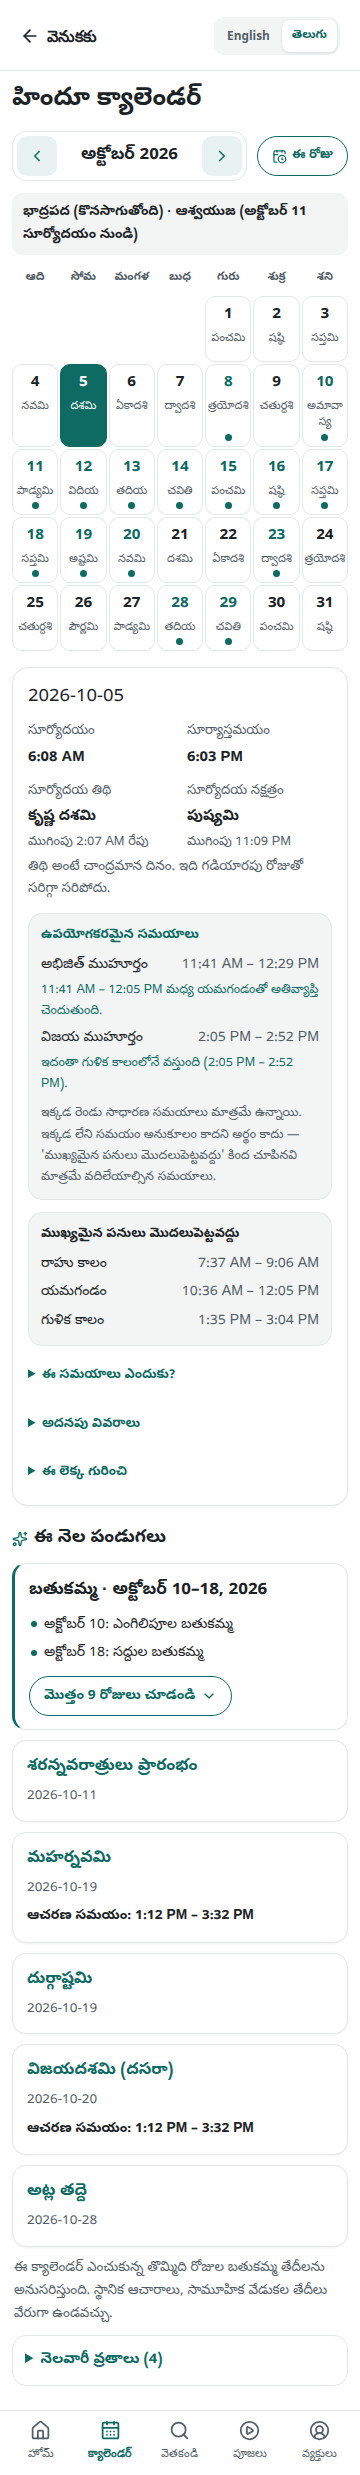
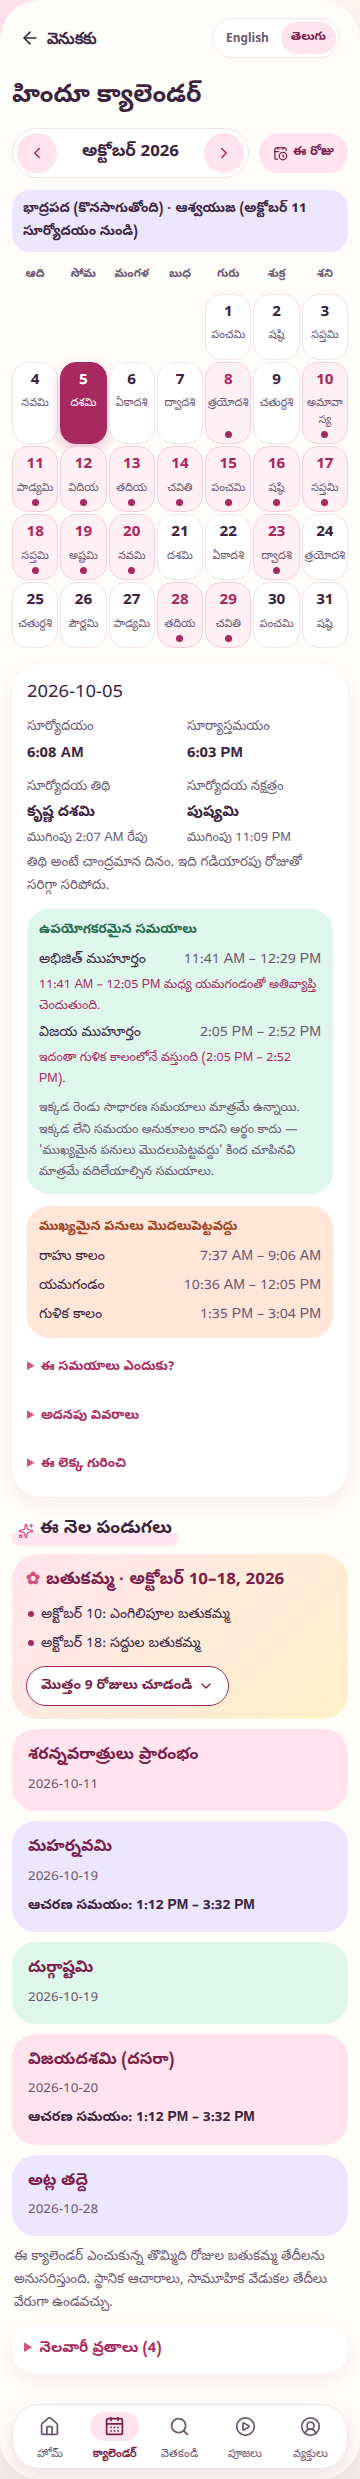
Design exploration: light and cute pastel theme (revision 3)
Owner feedback on revision 2 (single teal accent): "try out of box and
light and cute theme". A third direction:

- warm cream page with soft pastel bubbles (pink, lavender, mint,
  butter, peach) and one berry accent (#a8295f) for links/actions;
- very rounded shapes: pill buttons, 20-32px cards, floating pill
  bottom navigation, gentle warm shadows;
- Today card as a soft pastel sky with a pale sun, details in white
  bubbles; festival cards take turns in pastel colours; pastel
  quick-access tiles; small CSS-only flower marks (hidden from AT);
- friendly rounded UI face where the platform has one.

Cute applies to interface chrome only: puja steps, mantras, Katha,
Sankalpam and concluding verses keep their plain presentation and a
neutral --font-content face. All text pairs checked for WCAG AA.
Presentation only; Tithi-label wrapping rules untouched.

diff --git a/app/globals.css b/app/globals.css
@@ -4,17 +4,22 @@
 
 .back-button{border:0;background:transparent;color:var(--foreground);display:flex;align-items:center;gap:7px;font-weight:700;padding:8px 0}.plain-note{margin:15px 0 0;padding-top:13px;border-top:1px solid rgba(255,255,255,.18);font-size:.78rem;line-height:1.45;color:rgba(255,255,255,.78)}.full-button{width:100%;border:0;text-align:left}.full-button>span{display:flex;align-items:center;color:var(--primary);font-size:.76rem;font-weight:800}.resume-line{display:flex;align-items:center;gap:6px;margin-top:12px;color:var(--primary);font-size:.78rem;font-weight:700}.flow-content{flex:1;padding:12px 20px 28px;overflow:auto}.flow-content>h1,.completion h1{margin:0;font-family:var(--font-display);font-size:1.8rem;line-height:1.3}.flow-intro{margin:10px 0 20px;color:var(--muted);font-size:.95rem;line-height:1.55}.person-list{display:grid;gap:12px}.form-card{border:1px solid var(--border);border-radius:18px;background:#fff;padding:16px}.form-card h2{margin:0 0 14px;font-family:var(--font-display);font-size:1.05rem}.form-card label{display:block;margin-top:12px;font-size:.82rem;font-weight:700}.form-card input,.form-card select{display:block;width:100%;margin-top:7px;border:1px solid var(--border);border-radius:11px;background:#fff;color:var(--foreground);padding:12px;font-size:.9rem}.add-button{width:100%;margin-top:12px;border:1px dashed var(--primary);border-radius:14px;background:var(--primary-soft);color:var(--primary);padding:12px;display:flex;justify-content:center;align-items:center;gap:7px;font-weight:800}.safety-note,.simple-explanation{display:flex;gap:11px;margin:18px 0;padding:14px;border-radius:16px;background:var(--surface-2);color:var(--foreground)}.safety-note svg,.simple-explanation>svg{flex:none;color:var(--primary)}.safety-note strong{font-size:.83rem}.safety-note p,.simple-explanation p{margin:6px 0 0;color:var(--muted);font-size:.8rem;line-height:1.5}.wide-primary{width:100%;min-height:48px;border:0;border-radius:14px;background:var(--primary);color:#fff;display:flex;align-items:center;justify-content:center;gap:8px;font-weight:800}.progress-label,.step-line{display:flex;justify-content:space-between;margin:18px 1px 8px;font-size:.8rem;color:var(--muted)}.progress-track{height:7px;border-radius:999px;background:var(--track);overflow:hidden}.progress-track span{display:block;height:100%;border-radius:999px;background:var(--primary);transition:width .25s ease}.check-box{width:22px;height:22px;border:1.5px solid var(--control-border);border-radius:7px;display:grid;place-items:center;flex:none}.simple-explanation h2{margin:0;font-family:var(--font-display);font-size:1rem}.simple-explanation strong{display:block;margin-top:8px;font-size:.78rem;line-height:1.4}.participant-summary{display:flex;align-items:center;gap:7px;color:var(--muted);font-size:.82rem;margin:18px 1px 12px}.puja-flow{display:flex;flex-direction:column}.puja-card{margin-top:20px;border:1px solid var(--border);border-radius:23px;background:#fff;padding:22px}.telugu-title{margin:0 0 8px;color:var(--primary);font-weight:800}.puja-card h1{margin:0;font-family:var(--font-display);font-size:1.7rem}.locked-note{display:flex;gap:9px;margin:15px 0;padding:12px;border-radius:13px;background:var(--warn-soft);color:var(--warn-text);font-size:.78rem;line-height:1.45}.locked-note svg{flex:none}.audio-button{width:100%;min-height:46px;border-radius:13px;display:flex;align-items:center;justify-content:center;gap:8px;font-weight:800;border:0;background:var(--primary-soft);color:var(--primary)}.audio-button:disabled{opacity:.65;cursor:not-allowed}.step-actions{display:grid;grid-template-columns:1fr 1.35fr;gap:10px;margin-top:auto;padding-top:22px}.step-actions button{min-height:47px;border:1px solid var(--border);border-radius:13px;background:#fff;color:var(--foreground);font-weight:800}.step-actions button:disabled{opacity:.4}.step-actions .primary-action{background:var(--primary);border-color:var(--primary);color:#fff;display:flex;align-items:center;justify-content:center;gap:5px}.completion{flex:1;display:flex;flex-direction:column;align-items:center;justify-content:center;text-align:center;padding:35px 25px}.completion-icon{width:76px;height:76px;border-radius:50%;display:grid;place-items:center;background:var(--primary-soft);color:var(--primary);margin-bottom:20px}.completion>p:not(.kicker){max-width:330px;color:var(--muted);line-height:1.6}.completion .wide-primary{max-width:310px;margin-top:20px}.restart-button{margin-top:10px;border:0;background:transparent;color:var(--primary);display:flex;align-items:center;gap:6px;padding:10px;font-weight:700}
 
-/* Core design tokens (simple/modern direction). Every component below reads
+/* Core design tokens (light/cute direction). Every component below reads
  * its colours from these, so the palette changes in one place.
- * One accent (--primary, deep teal) on white and cool-neutral surfaces.
- * Text pairs meet WCAG AA (4.5:1): foreground/white 15.9:1, muted/white
- * 6.7:1, primary/white 6.4:1, white/primary 6.4:1. */
-:root{--background:#f6f7f7;--foreground:#1c2326;--card:#ffffff;--primary:#0d6b63;--primary-dark:#0a524c;--primary-soft:#e8f3f1;--muted:#525d66;--border:#e3e7e8;
-  --surface:#ffffff;--surface-2:#f3f5f5;--surface-accent:#f3f5f5;--track:#e3e7e8;--control-border:#7a858c;--past-dot:#c3c9cc;
-  --danger:#b42318;--warn-soft:#fff4dc;--warn-text:#8a4b00;--accent-light:#ffffff;
-  --font-body:ui-sans-serif,system-ui,-apple-system,"Segoe UI",Roboto,"Helvetica Neue",Arial,sans-serif;
+ * Warm cream page, soft pastel surfaces (pink, lavender, mint, butter,
+ * peach), one berry accent for text/actions. Every text colour is checked
+ * against the pastel it sits on and meets WCAG AA (4.5:1). */
+:root{--background:#fff8f1;--foreground:#3a2440;--card:#fffdf9;--primary:#a8295f;--primary-dark:#7a1f4a;--primary-soft:#ffe4ef;--muted:#6b5870;--border:#f1e2ea;
+  --surface:#ffffff;--surface-2:#fbf3f7;--surface-accent:#fffaf3;--track:#f4dfe9;--control-border:#8c6f86;--past-dot:#dccbd6;
+  --danger:#b42318;--warn-soft:#fff1c7;--warn-text:#7a4a00;--accent-light:#ffffff;
+  --pink:#ffe4ef;--lavender:#ece6ff;--mint:#dff6ec;--butter:#fff1c7;--peach:#ffe6d9;
+  --mint-text:#1f6b4a;--peach-text:#a3401c;--lavender-text:#5b3fa8;
+  /* UI chrome uses a friendly rounded face where the platform has one;
+     sacred/puja content keeps the plain, neutral --font-content. */
+  --font-body:ui-rounded,"SF Pro Rounded","Nunito","Quicksand","Varela Round","Segoe UI",system-ui,-apple-system,Roboto,Arial,sans-serif;
+  --font-content:ui-sans-serif,system-ui,-apple-system,"Segoe UI",Roboto,"Helvetica Neue",Arial,sans-serif;
   --font-display:var(--font-body)}
-*{box-sizing:border-box}body{margin:0;background:var(--background);color:var(--foreground);font-family:var(--font-body)}button,select{font:inherit}button{cursor:pointer}button:disabled{opacity:.5;cursor:not-allowed}.app-shell{min-height:100vh;display:grid;place-items:center;padding:24px}.phone-shell{width:min(100%,460px);min-height:min(900px,calc(100vh - 48px));background:var(--card);border:1px solid var(--border);border-radius:34px;overflow:hidden;box-shadow:0 24px 70px rgba(16,24,32,.16);display:flex;flex-direction:column}.topbar{padding:22px 20px 14px;display:flex;align-items:center;justify-content:space-between;gap:16px}.brand-lockup{display:flex;align-items:center;gap:11px}.brand-mark{width:43px;height:43px;border-radius:14px;display:grid;place-items:center;background:var(--primary-soft);color:var(--primary);font-family:var(--font-display);font-size:23px}.brand-name{font-family:var(--font-display);font-size:1.18rem;font-weight:700}.location-button{border:0;padding:4px 0 0;background:transparent;color:var(--muted);display:flex;align-items:center;gap:3px;font-size:.78rem}.content{flex:1;padding:2px 18px 22px}.welcome-row{display:flex;justify-content:space-between;align-items:flex-start;gap:14px;margin:8px 2px 18px}.kicker,.eyebrow{margin:0 0 5px;font-size:.69rem;letter-spacing:.12em;font-weight:800;color:var(--muted)}.welcome-row h1{margin:0;font-family:var(--font-display);font-size:1.9rem;line-height:1.3}.welcome-copy{margin:7px 0 0;color:var(--muted);font-size:.88rem;line-height:1.4}.today-card{padding:19px;border-radius:24px;color:#fff;background:var(--primary-dark);box-shadow:0 12px 28px rgba(16,24,32,.22)}.card-heading-row{display:flex;align-items:flex-start;justify-content:space-between;gap:10px}.today-card .eyebrow{color:rgba(255,255,255,.7)}.today-card h2{margin:0;font-family:var(--font-display);font-size:1.25rem}.status-chip{display:flex;align-items:center;gap:5px;padding:6px 8px;border:1px solid rgba(255,255,255,.25);border-radius:999px;font-size:.7rem;background:rgba(255,255,255,.08)}.panchanga-grid{margin-top:18px;padding-top:15px;border-top:1px solid rgba(255,255,255,.18);display:grid;grid-template-columns:repeat(3,1fr);gap:10px}.panchanga-grid span,.panchanga-grid strong{display:block}.panchanga-grid span{margin-bottom:5px;color:rgba(255,255,255,.68);font-size:.71rem}.panchanga-grid strong{font-size:.78rem;line-height:1.35}
+*{box-sizing:border-box}body{margin:0;background:var(--background);color:var(--foreground);font-family:var(--font-body)}button,select{font:inherit}button{cursor:pointer}button:disabled{opacity:.5;cursor:not-allowed}.app-shell{min-height:100vh;display:grid;place-items:center;padding:24px}.phone-shell{width:min(100%,460px);min-height:min(900px,calc(100vh - 48px));background:var(--card);border:1px solid var(--border);border-radius:34px;overflow:hidden;box-shadow:0 24px 70px rgba(122,31,74,.16);display:flex;flex-direction:column}.topbar{padding:22px 20px 14px;display:flex;align-items:center;justify-content:space-between;gap:16px}.brand-lockup{display:flex;align-items:center;gap:11px}.brand-mark{width:43px;height:43px;border-radius:14px;display:grid;place-items:center;background:var(--primary-soft);color:var(--primary);font-family:var(--font-display);font-size:23px}.brand-name{font-family:var(--font-display);font-size:1.18rem;font-weight:700}.location-button{border:0;padding:4px 0 0;background:transparent;color:var(--muted);display:flex;align-items:center;gap:3px;font-size:.78rem}.content{flex:1;padding:2px 18px 22px}.welcome-row{display:flex;justify-content:space-between;align-items:flex-start;gap:14px;margin:8px 2px 18px}.kicker,.eyebrow{margin:0 0 5px;font-size:.69rem;letter-spacing:.12em;font-weight:800;color:var(--muted)}.welcome-row h1{margin:0;font-family:var(--font-display);font-size:1.9rem;line-height:1.3}.welcome-copy{margin:7px 0 0;color:var(--muted);font-size:.88rem;line-height:1.4}.today-card{padding:19px;border-radius:24px;color:#fff;background:var(--primary-dark);box-shadow:0 12px 28px rgba(122,31,74,.22)}.card-heading-row{display:flex;align-items:flex-start;justify-content:space-between;gap:10px}.today-card .eyebrow{color:rgba(255,255,255,.7)}.today-card h2{margin:0;font-family:var(--font-display);font-size:1.25rem}.status-chip{display:flex;align-items:center;gap:5px;padding:6px 8px;border:1px solid rgba(255,255,255,.25);border-radius:999px;font-size:.7rem;background:rgba(255,255,255,.08)}.panchanga-grid{margin-top:18px;padding-top:15px;border-top:1px solid rgba(255,255,255,.18);display:grid;grid-template-columns:repeat(3,1fr);gap:10px}.panchanga-grid span,.panchanga-grid strong{display:block}.panchanga-grid span{margin-bottom:5px;color:rgba(255,255,255,.68);font-size:.71rem}.panchanga-grid strong{font-size:.78rem;line-height:1.35}
 .panchanga-values{margin:15px 0 0;padding:0;display:grid;grid-template-columns:1fr 1fr;gap:12px 14px}
 .panchanga-values div{margin:0}
 .panchanga-values dt{margin:0 0 3px;color:rgba(255,255,255,.68);font-size:.7rem;letter-spacing:.06em;text-transform:uppercase}
@@ -74,7 +79,7 @@
 @media(max-width:370px){.material-head{flex-direction:column}}
 
 /* Review round 2: gating, pilot data, patri self-report */
-.global-lang-toggle{display:flex;gap:2px;padding:3px;border-radius:11px;background:var(--surface-2);flex:none}.global-lang-toggle button{border:0;border-radius:8px;background:transparent;padding:6px 10px;color:var(--muted);font-size:.74rem;font-weight:700}.global-lang-toggle button.active{background:#fff;color:var(--primary);box-shadow:0 1px 5px rgba(16,24,32,.1)}
+.global-lang-toggle{display:flex;gap:2px;padding:3px;border-radius:11px;background:var(--surface-2);flex:none}.global-lang-toggle button{border:0;border-radius:8px;background:transparent;padding:6px 10px;color:var(--muted);font-size:.74rem;font-weight:700}.global-lang-toggle button.active{background:#fff;color:var(--primary);box-shadow:0 1px 5px rgba(122,31,74,.1)}
 .info-note{display:flex;gap:8px;align-items:flex-start;margin:14px 0;padding:11px 12px;border-radius:12px;background:#eef1f3;color:#3f4b52;font-size:.82rem;line-height:1.5;font-weight:600}
 .info-note svg{flex:none;margin-top:1px}
 .awaiting-review{display:flex;gap:8px;align-items:flex-start;margin:12px 0 0;padding:11px 12px;border-radius:12px;background:#fdeae2;border:1px solid #efb79c;color:#8a3c1c;font-size:.82rem;line-height:1.5;font-weight:600}
@@ -93,7 +98,7 @@
 .candidate-disclaimer{margin:0;color:var(--muted);font-size:.76rem;line-height:1.45}
 
 /* End-to-end private review journey */
-.path-options{border:0;margin:16px 0;padding:0;display:grid;gap:9px}.path-options label{display:flex;gap:10px;padding:13px;border:1px solid var(--border);border-radius:14px;background:#fff;cursor:pointer}.path-options label.selected{border-color:var(--primary);background:var(--primary-soft)}.path-options input{accent-color:var(--primary)}.path-options strong,.path-options small{display:block}.path-options small{margin-top:4px;color:var(--muted);line-height:1.4}.reviewer-banner{display:flex;gap:8px;align-items:flex-start;margin:0 0 14px;padding:10px 11px;border:1px solid #e7c578;border-radius:12px;background:#fff8df;color:#684b12;font-size:.76rem;line-height:1.45}.reviewer-banner svg{flex:none;margin-top:1px}.language-toggle{display:grid;grid-template-columns:1fr 1fr;gap:5px;margin-bottom:15px;padding:4px;border-radius:12px;background:var(--surface-2)}.language-toggle button{border:0;border-radius:9px;background:transparent;padding:8px;color:var(--muted);font-weight:700}.language-toggle button.active{background:#fff;color:var(--primary);box-shadow:0 1px 5px rgba(16,24,32,.1)}.step-meta{margin:7px 0 0;color:var(--muted);font-size:.76rem;font-weight:700}.participant-review{margin-top:14px;padding:12px;border-radius:12px;background:var(--surface-2)}.participant-review p{margin:5px 0;font-size:.9rem}.participant-review small{color:var(--muted);line-height:1.4}.audio-note{margin:6px 0 0;color:var(--muted);font-size:.72rem;line-height:1.4}.wide-secondary{width:100%;max-width:310px;min-height:48px;border:1px solid var(--primary);border-radius:14px;background:#fff;color:var(--primary);display:flex;align-items:center;justify-content:center;gap:8px;font-weight:800;margin-top:18px}.immersion-flow>h1{margin-bottom:14px}.choice-card{margin:12px 0;padding:16px;border:1px solid var(--border);border-radius:16px;background:#fff}.choice-card h2{margin:0 0 8px;font-family:var(--font-display);font-size:1.08rem}.choice-card p,.choice-card li{color:var(--muted);font-size:.84rem;line-height:1.55}.choice-card p{margin:0}.choice-card ol{padding-left:20px;margin:8px 0 0}.choice-card li+li{margin-top:5px}
+.path-options{border:0;margin:16px 0;padding:0;display:grid;gap:9px}.path-options label{display:flex;gap:10px;padding:13px;border:1px solid var(--border);border-radius:14px;background:#fff;cursor:pointer}.path-options label.selected{border-color:var(--primary);background:var(--primary-soft)}.path-options input{accent-color:var(--primary)}.path-options strong,.path-options small{display:block}.path-options small{margin-top:4px;color:var(--muted);line-height:1.4}.reviewer-banner{display:flex;gap:8px;align-items:flex-start;margin:0 0 14px;padding:10px 11px;border:1px solid #e7c578;border-radius:12px;background:#fff8df;color:#684b12;font-size:.76rem;line-height:1.45}.reviewer-banner svg{flex:none;margin-top:1px}.language-toggle{display:grid;grid-template-columns:1fr 1fr;gap:5px;margin-bottom:15px;padding:4px;border-radius:12px;background:var(--surface-2)}.language-toggle button{border:0;border-radius:9px;background:transparent;padding:8px;color:var(--muted);font-weight:700}.language-toggle button.active{background:#fff;color:var(--primary);box-shadow:0 1px 5px rgba(122,31,74,.1)}.step-meta{margin:7px 0 0;color:var(--muted);font-size:.76rem;font-weight:700}.participant-review{margin-top:14px;padding:12px;border-radius:12px;background:var(--surface-2)}.participant-review p{margin:5px 0;font-size:.9rem}.participant-review small{color:var(--muted);line-height:1.4}.audio-note{margin:6px 0 0;color:var(--muted);font-size:.72rem;line-height:1.4}.wide-secondary{width:100%;max-width:310px;min-height:48px;border:1px solid var(--primary);border-radius:14px;background:#fff;color:var(--primary);display:flex;align-items:center;justify-content:center;gap:8px;font-weight:800;margin-top:18px}.immersion-flow>h1{margin-bottom:14px}.choice-card{margin:12px 0;padding:16px;border:1px solid var(--border);border-radius:16px;background:#fff}.choice-card h2{margin:0 0 8px;font-family:var(--font-display);font-size:1.08rem}.choice-card p,.choice-card li{color:var(--muted);font-size:.84rem;line-height:1.55}.choice-card p{margin:0}.choice-card ol{padding-left:20px;margin:8px 0 0}.choice-card li+li{margin-top:5px}
 
 /* Telugu/English narration controls */
 .audio-controls{display:flex;gap:8px;align-items:stretch}
@@ -186,7 +191,7 @@
 .toggle-caption{margin:0 0 4px;font-size:.72rem;line-height:1.45;color:var(--muted)}
 .playback-speed-toggle{display:grid;grid-template-columns:repeat(3,minmax(0,1fr));gap:5px;margin:0 0 15px;padding:4px;border-radius:12px;background:var(--surface-2)}
 .playback-speed-toggle button{border:0;border-radius:9px;background:transparent;padding:8px;color:var(--muted);font-weight:700;font-size:.82rem}
-.playback-speed-toggle button.active{background:#fff;color:var(--primary);box-shadow:0 1px 5px rgba(16,24,32,.1)}
+.playback-speed-toggle button.active{background:#fff;color:var(--primary);box-shadow:0 1px 5px rgba(122,31,74,.1)}
 .te-pending-note{margin:8px 0 0;padding:8px 10px;border-radius:9px;background:var(--warn-soft);color:var(--warn-text);font-size:.76rem;line-height:1.5}
 .app-audio{margin:14px 0 0}
 .app-audio .audio-controls{margin-top:0}
@@ -329,7 +334,7 @@
 /* Keep Previous/Next reachable after a long mantra */
 .puja-flow{scroll-padding-bottom:96px}
 .puja-flow .puja-card{margin-bottom:10px}
-.puja-flow .step-actions{position:sticky;bottom:0;z-index:2;background:var(--card);padding-top:14px;padding-bottom:calc(14px + env(safe-area-inset-bottom,0px));box-shadow:0 -10px 14px -8px rgba(16,24,32,.18)}
+.puja-flow .step-actions{position:sticky;bottom:0;z-index:2;background:var(--card);padding-top:14px;padding-bottom:calc(14px + env(safe-area-inset-bottom,0px));box-shadow:0 -10px 14px -8px rgba(122,31,74,.18)}
 /* Programmatic focus of the step heading on step change must not draw a
  * visible outline or shift layout; keyboard focus still shows one. */
 .puja-card h1{outline:none}
@@ -515,14 +520,14 @@
  * light cards, text accents in --primary and a decorative accent (--accent).
  * The layout and the Tithi-label wrapping decided here still apply; the
  * colours are re-themed by the "Vibrant/modern direction" block at the end. */
-:root{--accent:var(--primary);--accent-soft:var(--primary-soft);--tile-border:var(--border);--times-useful:var(--surface-2);--times-avoid:var(--surface-2)}
+:root{--accent:#d6517f;--accent-soft:var(--pink);--tile-border:var(--border);--times-useful:var(--mint);--times-avoid:var(--peach)}
 
 /* Home: welcome */
 .welcome-row{margin:6px 2px 14px}
 .welcome-row h1{font-size:1.7rem;line-height:1.25}
 
 /* Home: today card - light, readable, saffron-tinted header */
-.today-card{padding:18px 16px 16px;border:1px solid var(--tile-border);border-top:4px solid var(--accent);border-radius:20px;color:var(--foreground);background:linear-gradient(180deg,var(--warn-soft) 0,#fffaf3 150px,#fffaf3 100%);box-shadow:0 8px 22px rgba(16,24,32,.08)}
+.today-card{padding:18px 16px 16px;border:1px solid var(--tile-border);border-top:4px solid var(--accent);border-radius:20px;color:var(--foreground);background:linear-gradient(180deg,var(--warn-soft) 0,#fffaf3 150px,#fffaf3 100%);box-shadow:0 8px 22px rgba(122,31,74,.08)}
 .today-card .eyebrow{color:var(--primary)}
 .today-card-place{display:flex;align-items:flex-start;gap:5px;line-height:1.4}
 .today-card-place svg{flex:none;margin-top:1px}
@@ -576,7 +581,7 @@
 .calendar-festivals h2{font-size:1.12rem}
 .calendar-festivals h2 svg{color:var(--accent)}
 .home-festivals{margin-top:22px}
-.calendar-festival-card{margin:0 0 10px;padding:13px 14px;border-radius:14px;box-shadow:0 1px 3px rgba(16,24,32,.06)}
+.calendar-festival-card{margin:0 0 10px;padding:13px 14px;border-radius:14px;box-shadow:0 1px 3px rgba(122,31,74,.06)}
 .calendar-festival-open{flex-direction:column;align-items:flex-start;justify-content:flex-start;gap:3px;text-align:left;min-height:32px}
 .calendar-festival-open strong{font-size:1.02rem;line-height:1.35;overflow-wrap:anywhere}
 .calendar-festival-open span{font-size:.84rem}
@@ -590,7 +595,7 @@
 .home-festivals>.link-button{font-size:.88rem;min-height:36px}
 
 /* Home: guided puja entry + quick access */
-.home-puja-entry{display:flex;align-items:center;gap:12px;width:100%;margin:0 0 10px;padding:14px 15px;border:0;border-radius:16px;background:linear-gradient(135deg,var(--primary-dark),var(--primary));color:#fff;text-align:left;box-shadow:0 8px 18px rgba(16,24,32,.18)}
+.home-puja-entry{display:flex;align-items:center;gap:12px;width:100%;margin:0 0 10px;padding:14px 15px;border:0;border-radius:16px;background:linear-gradient(135deg,var(--primary-dark),var(--primary));color:#fff;text-align:left;box-shadow:0 8px 18px rgba(122,31,74,.18)}
 .home-puja-entry-icon{flex:none;width:40px;height:40px;border-radius:12px;display:grid;place-items:center;background:rgba(255,255,255,.16);color:var(--accent-light)}
 .home-puja-entry-copy{flex:1;min-width:0}
 .home-puja-entry-copy strong{display:block;font-size:1rem}
@@ -694,67 +699,151 @@
 }
 @media (prefers-reduced-motion:reduce){.calendar-group-toggle svg{transition:none}}
 
-/* ══ Simple/modern direction (design exploration) ══════════════════════════
- * Presentation only - no layout logic, no content. Kept deliberately calm:
- *  - ONE accent colour (--primary, deep teal) for primary actions, links,
- *    today / selected date and festival markers - nothing else is coloured;
- *  - flat colour only (no gradients), white cards on a cool-neutral page,
- *    one neutral tint (--surface-2) for secondary panels;
- *  - a plain system-sans type hierarchy.
+/* ══ Light/cute direction (design exploration) ═════════════════════════════
+ * Presentation only - no layout logic, no content changes.
+ *  - warm cream page with soft pastel "bubbles" (pink, lavender, mint,
+ *    butter, peach); one berry accent (--primary) for text links/actions;
+ *  - very rounded shapes: pill buttons, 20-32px cards, a floating pill
+ *    bottom navigation; gentle warm shadows;
+ *  - a friendly rounded UI face where available (--font-body);
+ *  - small decorative touches (a soft sun on the Today card, a flower mark
+ *    on the greeting and the Bathukamma group) are CSS-only and hidden from
+ *    assistive technology.
+ * The cute treatment is for the interface chrome ONLY. Puja steps, mantras,
+ * Katha, Sankalpam and other sacred content keep their existing, plain
+ * presentation and the neutral --font-content face (see the end of block).
  * Tithi-label wrapping is NOT touched here (see the block above). */
-:root{--card-shadow:0 1px 2px rgba(16,24,32,.05)}
+:root{--soft-shadow:0 6px 18px rgba(122,31,74,.08);--bubble-radius:22px}
 
-/* App bar: plain white with a hairline divider */
-.topbar{padding:16px 20px 14px;background:var(--surface);border-bottom:1px solid var(--border)}
-.global-lang-toggle button.active{box-shadow:0 1px 3px rgba(16,24,32,.12)}
+/* Page + shell */
+body{background:radial-gradient(520px 420px at 0% 0%,#ffe4ef 0,transparent 70%),radial-gradient(560px 460px at 100% 20%,#ece6ff 0,transparent 70%),radial-gradient(620px 520px at 50% 110%,#dff6ec 0,transparent 70%),var(--background)}
+.phone-shell{border:0;border-radius:40px;background:var(--card);box-shadow:0 30px 70px rgba(122,31,74,.14)}
 
-/* Headings: one sans family, clear weights, no decoration */
-.brand-name,.welcome-row h1,.flow-content>h1,.completion h1,.calendar-head h1,.search-screen h1,.section-title-row h2,.calendar-festivals h2,.today-card h2,.puja-card h1,.form-card h2,.choice-card h2{font-weight:700}
-.welcome-row{margin:16px 2px 16px}
-.welcome-row h1{font-size:1.65rem}
+/* App bar: airy, no divider; round brand badge and pill language switch */
+.topbar{padding:18px 20px 10px;background:transparent}
+.brand-mark{border-radius:50%;background:var(--pink);color:var(--primary)}
+.brand-name{font-weight:800;color:var(--primary-dark)}
+.brand-lockup{min-width:0}
+.location-button{align-items:flex-start;text-align:left;line-height:1.35}
+.location-button svg{flex:none;margin-top:2px}
+.global-lang-toggle{padding:3px;border:1px solid var(--border);border-radius:999px;background:var(--surface)}
+.global-lang-toggle button{border-radius:999px;min-height:30px;padding:6px 10px}
+.global-lang-toggle button.active{background:var(--pink);color:var(--primary-dark);box-shadow:none}
 
-/* Home: today card and its tiles - white, hairline borders */
-.today-card{border:1px solid var(--border);border-radius:18px;background:var(--surface);box-shadow:var(--card-shadow)}
-.home-glance .home-tithi,.home-glance .home-nakshatra,.home-sun div{border:1px solid var(--border);background:var(--surface)}
-.home-times,.cal-times{border:1px solid var(--border);background:var(--surface-2)}
-.home-times-avoid h3,.cal-times-avoid h3{color:var(--foreground)}
+/* Headings: friendly and bold; section titles get a soft highlighter mark */
+.welcome-row h1,.flow-content>h1,.calendar-head h1,.search-screen h1,.section-title-row h2,.calendar-festivals h2,.today-card h2,.form-card h2,.choice-card h2{font-weight:800}
+.section-title-row h2,.calendar-festivals h2{width:fit-content;padding:0 6px;border-radius:8px;background:linear-gradient(transparent 58%,var(--pink) 58%)}
 
-/* Festival cards (Home + Calendar) */
-.calendar-festivals h2 svg{color:var(--primary)}
-.calendar-festival-card{border-color:var(--border);background:var(--surface);box-shadow:var(--card-shadow)}
+/* Home: greeting with a small flower mark */
+.welcome-row{margin:8px 2px 16px}
+.welcome-row .kicker{display:flex;align-items:center;gap:6px;color:var(--primary)}
+.welcome-row .kicker::before{content:"✿";content:"✿"/"";font-size:1rem;letter-spacing:0;color:var(--accent)}
+.welcome-row h1{font-size:1.9rem;color:var(--foreground)}
+
+/* Home: Today card as a soft pastel "sky" with a pale sun; the details sit
+ * in white bubbles on top of it */
+.today-card{position:relative;overflow:hidden;padding:20px 16px 16px;border:0;border-radius:32px;background:linear-gradient(160deg,#ffe4ef 0%,#f3ecff 55%,#e6f1ff 100%);box-shadow:var(--soft-shadow)}
+.today-card::before{content:"";position:absolute;top:-34px;right:-30px;width:130px;height:130px;border-radius:50%;background:radial-gradient(circle,#fff1c7 0 42%,rgba(255,241,199,.55) 43% 62%,transparent 63%);pointer-events:none}
+.today-card>*{position:relative}
+.today-card .eyebrow{color:var(--primary-dark)}
+.today-card h2{font-size:1.45rem}
+.home-glance .home-tithi,.home-glance .home-nakshatra{border:0;border-radius:var(--bubble-radius);background:rgba(255,255,255,.92);box-shadow:0 2px 8px rgba(122,31,74,.06)}
+.home-sun div{border:0;border-radius:var(--bubble-radius);background:var(--butter)}
+.home-sun div+div{background:var(--lavender)}
+.home-sun dt svg{color:var(--peach-text)}
+.home-sun div+div dt svg{color:var(--lavender-text)}
+.home-times,.cal-times{border:0;border-radius:var(--bubble-radius);background:var(--mint)}
+.home-times-avoid,.cal-times-avoid{background:var(--peach)}
+.home-times h3,.cal-times h3{color:var(--mint-text)}
+.home-times-avoid h3,.cal-times-avoid h3{color:var(--peach-text)}
+.home-why,.home-see-full{border-top:1px dashed rgba(122,31,74,.18)}
+.location-nudge{border:0;border-radius:var(--bubble-radius);background:var(--butter)}
+
+/* Festival cards: rounded pastel bubbles that take turns in colour */
+.calendar-festivals h2 svg{color:var(--accent)}
+.calendar-festival-card{border:0;border-radius:24px;background:var(--pink);box-shadow:none;padding:14px 16px}
+.calendar-festival-card:nth-of-type(3n+2){background:var(--lavender)}
+.calendar-festival-card:nth-of-type(3n){background:var(--mint)}
 .calendar-festival-card.is-past{background:var(--surface-2)}
-.calendar-festival-card.is-focused{border-color:var(--primary);box-shadow:0 0 0 2px var(--primary)}
-.calendar-festival-open strong{color:var(--primary)}
+.calendar-group-days .calendar-festival-card{background:rgba(255,255,255,.85)}
+.calendar-festival-card.is-focused{box-shadow:0 0 0 2px var(--primary)}
+.calendar-festival-open strong{color:var(--primary-dark)}
+.calendar-festival-card .link-button{background:var(--primary);box-shadow:none}
 
-/* Home: guided puja entry (the one solid-colour card) + quick access */
-.home-puja-entry{background:var(--primary);box-shadow:none}
-.home-puja-entry:hover{background:var(--primary-dark)}
-.quick-grid button{border-color:var(--border);background:var(--surface);box-shadow:var(--card-shadow)}
+/* Buttons: pills */
+.wide-primary,.wide-secondary,.primary-action,.secondary-action,.festival-actions button,.step-actions button,.add-button,.audio-button,.app-audio-button,.offline-download-actions button,.calendar-today-btn,.calendar-group-toggle,.verdict-button{border-radius:999px}
+.wide-primary,.primary-action,.app-audio-button{box-shadow:0 6px 14px rgba(168,41,95,.22)}
+.wide-primary:hover,.primary-action:hover,.app-audio-button:hover,.calendar-festival-card .link-button:hover{background:var(--primary-dark)}
+.wide-primary:focus-visible,.wide-secondary:focus-visible,.primary-action:focus-visible,.secondary-action:focus-visible,.link-button:focus-visible,.calendar-group-toggle:focus-visible,.home-puja-entry:focus-visible,.quick-grid button:focus-visible{outline:2px solid var(--primary);outline-offset:3px}
 
-/* Shared cards and form focus (People, Pujas, Search, flows) */
-.form-card,.choice-card,.mode-option,.path-options label,.patri-option,.search-results button,.search-field,.calendar-monthly{border-color:var(--border);background:var(--surface)}
-.form-card input,.form-card select,.search-field{border-color:#d3d9db}
+/* Home: guided puja entry (butter -> pink) and pastel quick-access tiles */
+.home-puja-entry{border-radius:28px;background:linear-gradient(120deg,#fff1c7,#ffe4ef);color:var(--foreground);box-shadow:var(--soft-shadow)}
+.home-puja-entry-icon{border-radius:50%;background:var(--surface);color:var(--primary)}
+.home-puja-entry-copy small{color:var(--muted)}
+.home-puja-entry>svg{color:var(--primary)}
+.quick-grid{gap:10px}
+.quick-grid button{min-height:98px;border:0;border-radius:24px;background:var(--lavender);box-shadow:none}
+.quick-grid button:nth-child(2){background:var(--mint)}
+.quick-grid button:nth-child(3){background:var(--peach)}
+.quick-grid svg{box-sizing:content-box;padding:9px;border-radius:50%;background:var(--surface);color:var(--primary)}
+
+/* Bottom navigation: a floating pill */
+.bottom-nav{margin:6px 12px calc(10px + env(safe-area-inset-bottom,0px));padding:7px 4px;border:1px solid var(--border);border-radius:28px;background:rgba(255,255,255,.96);box-shadow:0 8px 22px rgba(122,31,74,.12)}
+.bottom-nav button svg{box-sizing:content-box;padding:4px 14px;border-radius:999px}
+.bottom-nav button.active{color:var(--primary-dark)}
+.bottom-nav button.active svg{background:var(--pink)}
+.bottom-nav button:focus-visible{outline:2px solid var(--primary);outline-offset:-2px;border-radius:18px}
+
+/* Shared cards and forms (People, Pujas, Search, flows) */
+.form-card,.choice-card,.location-current,.offline-download,.sankalpam-choice,.sankalpam-per-participant-gotra,.correction-panel{border:1px solid var(--border);border-radius:26px;background:var(--surface);box-shadow:var(--soft-shadow)}
+.mode-option,.path-options label,.patri-option{border-color:var(--border);border-radius:20px;background:var(--surface)}
+.mode-option.selected,.path-options label.selected,.patri-option.selected{border-color:var(--primary);background:var(--pink)}
+.form-card input,.form-card select,.voice-select select,.correction-field select,.correction-field textarea,.sankalpam-family-gotra input{border-color:#e6cfdc;border-radius:16px}
 .form-card input:focus-visible,.form-card select:focus-visible,.voice-select select:focus-visible,.correction-field select:focus-visible,.correction-field textarea:focus-visible,.sankalpam-family-gotra input:focus-visible{outline:2px solid var(--primary);outline-offset:1px;border-color:var(--primary)}
-.search-field:focus-within{outline:2px solid var(--primary);outline-offset:1px;border-color:var(--primary)}
-.search-results button:hover,.puja-catalogue-item:hover{border-color:var(--primary)}
-.wide-primary:hover,.primary-action:hover,.app-audio-button:hover{background:var(--primary-dark)}
-.wide-primary:focus-visible,.wide-secondary:focus-visible,.primary-action:focus-visible,.secondary-action:focus-visible,.link-button:focus-visible,.calendar-group-toggle:focus-visible,.bottom-nav button:focus-visible{outline:2px solid var(--primary);outline-offset:2px}
+.safety-note,.simple-explanation{border-radius:var(--bubble-radius);background:var(--lavender)}
+.info-note,.beta-unavailable{border-radius:18px;background:var(--lavender);color:var(--foreground)}
+.puja-catalogue-item:hover{border-color:var(--primary)}
 
-/* Calendar: month navigation and grid (colours only - sizes and wrapping
- * are unchanged). Today = teal ring, selected = teal fill, festival = teal
- * date number + dot. */
-.calendar-nav{border-color:var(--border);background:var(--surface)}
-.calendar-today-btn{background:var(--surface)}
-.calendar-cell{border-color:var(--border);background:var(--surface)}
+/* Search */
+.search-field{border:1px solid #e6cfdc;border-radius:999px;padding:11px 16px;background:var(--surface);box-shadow:var(--soft-shadow)}
+.search-field:focus-within{outline:2px solid var(--primary);outline-offset:1px;border-color:var(--primary)}
+.search-field svg{color:var(--primary)}
+.search-results button{border:0;border-radius:20px;background:var(--surface);box-shadow:var(--soft-shadow)}
+.search-results li:nth-child(3n+1) button{background:#fff4f8}
+.search-results li:nth-child(3n+2) button{background:#f7f4ff}
+.search-results li:nth-child(3n) button{background:#f2fbf7}
+.search-results button:hover{box-shadow:0 0 0 2px var(--primary)}
+
+/* Calendar: header + month navigation */
+.calendar-nav{border:1px solid var(--border);border-radius:999px;background:var(--surface)}
+.calendar-nav button{border-radius:50%;background:var(--pink);color:var(--primary)}
+.calendar-today-btn{border:0;background:var(--pink);color:var(--primary-dark)}
+.calendar-month-markers{border-radius:18px;background:var(--lavender)}
+
+/* Calendar: month grid (colours and corner radius only - the sizes,
+ * padding and Tithi-label wrapping are unchanged) */
+.calendar-cell{border-color:var(--border);border-radius:16px;background:var(--surface)}
 .calendar-cell.calendar-blank{background:transparent}
 .calendar-cell:not(.calendar-blank):hover{border-color:var(--primary)}
-.calendar-cell.has-festival{background:var(--surface)}
-.calendar-cell.is-selected,.calendar-cell.is-selected.has-festival{background:var(--primary);border-color:var(--primary);color:#fff}
+.calendar-cell.has-festival{border-color:#f6cddd;background:#fff0f6}
+.calendar-cell.has-festival .calendar-daynum{color:var(--primary)}
+.calendar-fest-dot{background:var(--primary)}
+.calendar-cell.is-today{border-color:var(--accent);background:var(--butter);box-shadow:inset 0 0 0 1px var(--accent)}
+.calendar-cell.is-selected,.calendar-cell.is-selected.has-festival,.calendar-cell.is-today.is-selected{background:var(--primary);border-color:var(--primary);color:#fff;box-shadow:0 6px 14px rgba(168,41,95,.28)}
 .calendar-cell.is-selected.has-festival .calendar-daynum{color:#fff}
 .calendar-cell.is-selected .calendar-tithi{color:#fff}
 
 /* Calendar: selected day + grouped festivals (Bathukamma) */
-.calendar-selected{border:1px solid var(--border);border-radius:16px;background:var(--surface);box-shadow:var(--card-shadow)}
-.calendar-group{border:1px solid var(--border);border-left:3px solid var(--primary);background:var(--surface)}
-.calendar-group-title{color:var(--foreground);font-family:var(--font-display);font-weight:700}
-.calendar-group-toggle{background:var(--surface)}
+.calendar-selected{border:0;border-radius:30px;background:var(--surface);box-shadow:var(--soft-shadow)}
+.calendar-group{border:0;border-radius:26px;background:linear-gradient(135deg,#ffe4ef,#fff1c7);box-shadow:none}
+.calendar-group-title{display:flex;align-items:baseline;gap:6px;font-family:var(--font-display);font-weight:800;color:var(--primary-dark)}
+.calendar-group-title::before{content:"✿";content:"✿"/"";color:var(--accent)}
+.calendar-group-summary li::before{background:var(--primary)}
+.calendar-group-toggle{border:1px solid var(--primary);background:var(--surface);color:var(--primary-dark)}
+.calendar-monthly{border:0;border-radius:22px;background:var(--surface);box-shadow:var(--soft-shadow)}
+.calendar-deferred{border-radius:18px}
+
+/* Sacred content stays plain: puja steps, mantras, Katha, Sankalpam and
+ * the concluding verses keep a neutral face and their existing shapes.
+ * (Telugu text still uses the :lang(te) font stack.) */
+.puja-card,.mantra-te,.katha-block,.sankalpam-assembled,.sankalpam-full-te,.sankalpam-preview,.conclusion-block,.step-block,.step-do,.step-keepready{font-family:var(--font-content)}

diff --git a/app/layout.tsx b/app/layout.tsx
@@ -27,7 +27,7 @@ export const metadata: Metadata = {
 };
 
 export const viewport: Viewport = {
-  themeColor: "#ffffff",
+  themeColor: "#fff8f1",
   width: "device-width",
   initialScale: 1,
   viewportFit: "cover",
